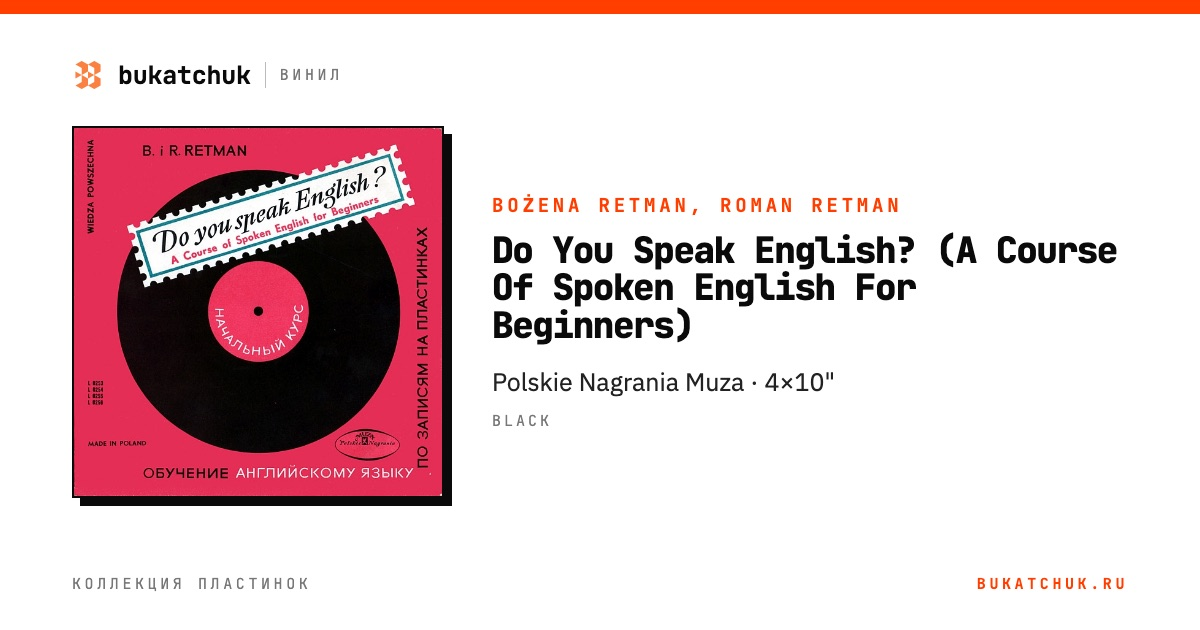
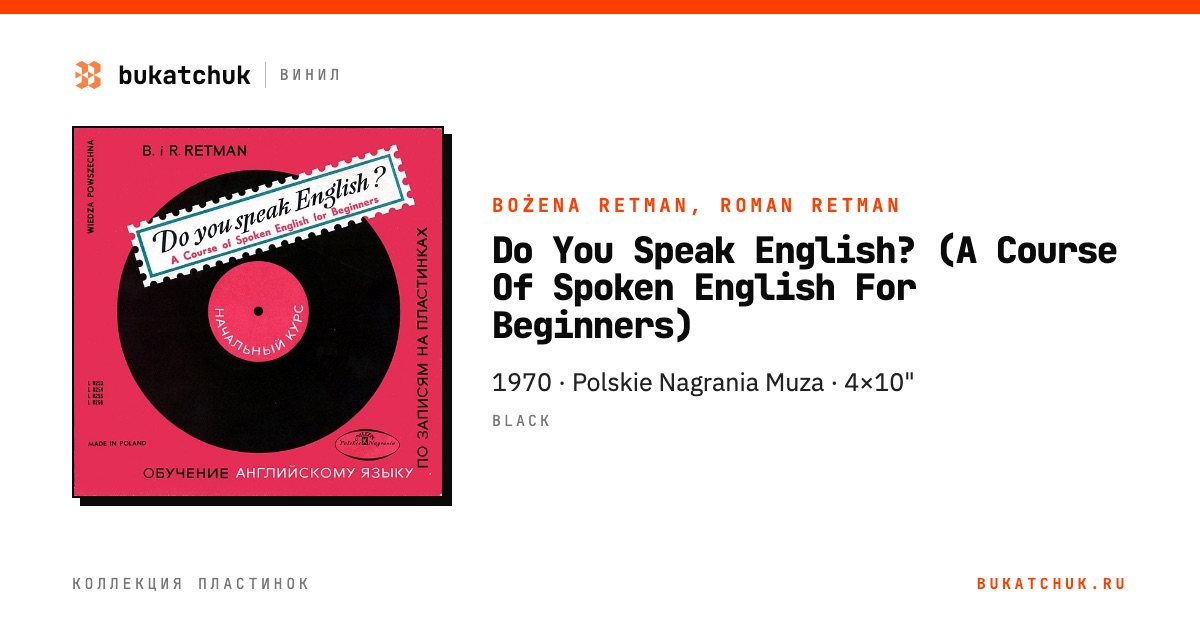
Винил: курс английского Ретманов — 1970 год

Changed region(s): [[0.4008, 0.573, 0.7708, 0.6333]]

diff --git a/_vinyl/retman-do-you-speak-english.md b/_vinyl/retman-do-you-speak-english.md
@@ -2,9 +2,8 @@
 layout: release
 artist: "Bożena Retman, Roman Retman"
 title: "Do You Speak English? (A Course Of Spoken English For Beginners)"
-year: 
-original_year: 
-released: 
+year: 1970
+original_year: 1970
 label: "Polskie Nagrania Muza"
 catno: "L 0253"
 country: "Польша"
@@ -16,13 +15,13 @@ styles: ["Education"]
 discogs: "https://www.discogs.com/release/2116678"
 cover: /assets/img/vinyl/retman-do-you-speak-english.jpg
 image: /assets/img/vinyl/og/retman-do-you-speak-english.jpg
-description: "Bożena Retman, Roman Retman — Do You Speak English? (A Course Of Spoken English For Beginners): 4×10\", Polskie Nagrania Muza."
+description: "Bożena Retman, Roman Retman — Do You Speak English? (A Course Of Spoken English For Beginners): 4×10\", Polskie Nagrania Muza, 1970."
 about: |
   Курс разговорного английского для начинающих на четырёх десятидюймовых пластинках польской фирмы Polskie Nagrania Muza. Авторы — Божена и Роман Ретманы. Курс состоит из двадцати пяти уроков.
 about_source: "https://www.discogs.com/release/2116678"
 about_source_name: "Discogs"
 extra: |
-  Год выпуска на Discogs не указан. Запись монофоническая.
+  Запись монофоническая. На Discogs год выпуска этого издания не указан; 1970 год поставлен по экземпляру из коллекции.
 tracklist:
   - {pos: "A1", title: "Урок № 1"}
   - {pos: "A2", title: "Урок № 2"}
